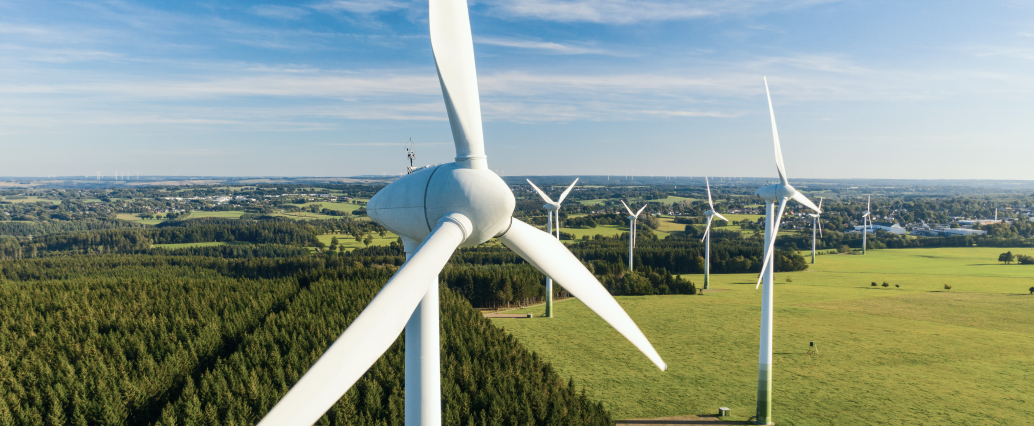
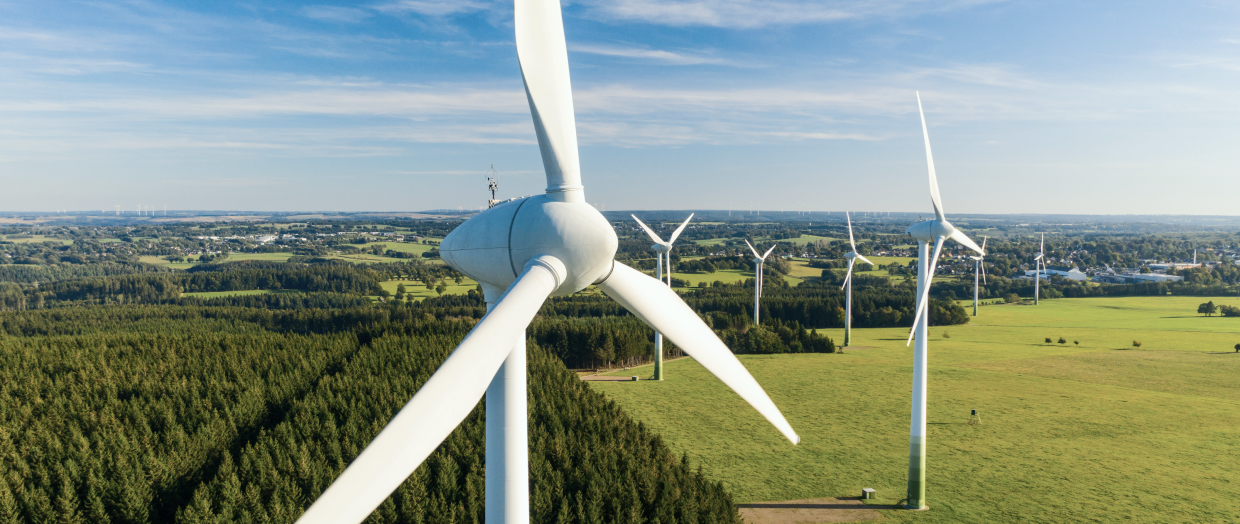
Fixed scroll by Learn more, fixed ogImage adaptive

diff --git a/src/components/main/mainsec.css b/src/components/main/mainsec.css
@@ -66,26 +66,15 @@ p {
 }
 
 .ogImage {
-    position: relative;
-    overflow: hidden;
-  }
-  
+  width: 100%;
+  height: calc(100vw - 160px);
+}
+
 .ogImage img {
   width: 100%;
-  height: auto;
+  height: 100%;
   object-fit: cover;
-}
-
-@media (max-width: 767px) {
-  .ogImage img {
-    height: 200px;
-  }
-}
-
-@media (min-width: 768px) and (max-width: 1279px) {
-  .ogImage img {
-    height: 348px;
-  }
+  object-position: center;
 }
 
 @media (min-width: 768px) {
@@ -131,38 +120,41 @@ p {
   .main-copyright {
     display: block;
   }
+
+  .ogImage {
+    max-height: 348px;
+  }
 }
 
-
-  @media (min-width: 1280px) {
-    .heading-wrapper {
-      margin-top: 264px;
-    }
-
-    .main-heading {
-      font-size: 64px;
-      width: 50%;
-    }
-
-    .description-wrapper {
-      padding-left: 161px;
-    }
-
-    .learn-more-wrapper {
-      margin-top: 24px;
-    }
-
-    .address-wrapper {
-      margin-top: 12px;
-      margin-bottom: 36px;
-    }
-
-    .email-copyright-wrapper {
-      padding-left: 161px;
-      width: 50%;
-    }
-
-    .ogImage img {
-      height: 524px;
-    }
+@media (min-width: 1280px) {
+  .heading-wrapper {
+    margin-top: 264px;
   }
+
+  .main-heading {
+    font-size: 64px;
+    width: 50%;
+  }
+
+  .description-wrapper {
+    padding-left: 161px;
+  }
+
+  .learn-more-wrapper {
+    margin-top: 24px;
+  }
+
+  .address-wrapper {
+    margin-top: 12px;
+    margin-bottom: 36px;
+  }
+
+  .email-copyright-wrapper {
+    padding-left: 161px;
+    width: 50%;
+  }
+
+  .ogImage {
+    max-height: 524px;
+  }
+}

diff --git a/src/components/main/Mainsec.js b/src/components/main/Mainsec.js
@@ -4,13 +4,25 @@ import ogImage from '../../img/wind-turbine-clean-energy.png';
 
 const Mainsec = () => {
 
+    // const scrollToCases = (e) => {
+    //     e.preventDefault();
+    //     const casesSection = document.getElementById('cases');
+    //     if (casesSection) {
+    //         casesSection.scrollIntoView({ behavior: 'smooth' });
+    //     }
+    // };
+
     const scrollToCases = (e) => {
         e.preventDefault();
         const casesSection = document.getElementById('cases');
         if (casesSection) {
-            casesSection.scrollIntoView({ behavior: 'smooth' });
+            const y = casesSection.getBoundingClientRect().top + window.pageYOffset -130;
+            window.scrollTo({
+                top: y, behavior: 'smooth'
+            });
         }
     };
+    
 
     return (
         <section id="main" className="mainsec">

diff --git a/src/components/header/burger-menu.css b/src/components/header/burger-menu.css
@@ -20,6 +20,7 @@
 .header.menu-open .dropdown-menu {
     display: block;
 }
+
 .header .overlay {
     position: fixed;
     top: 0;
